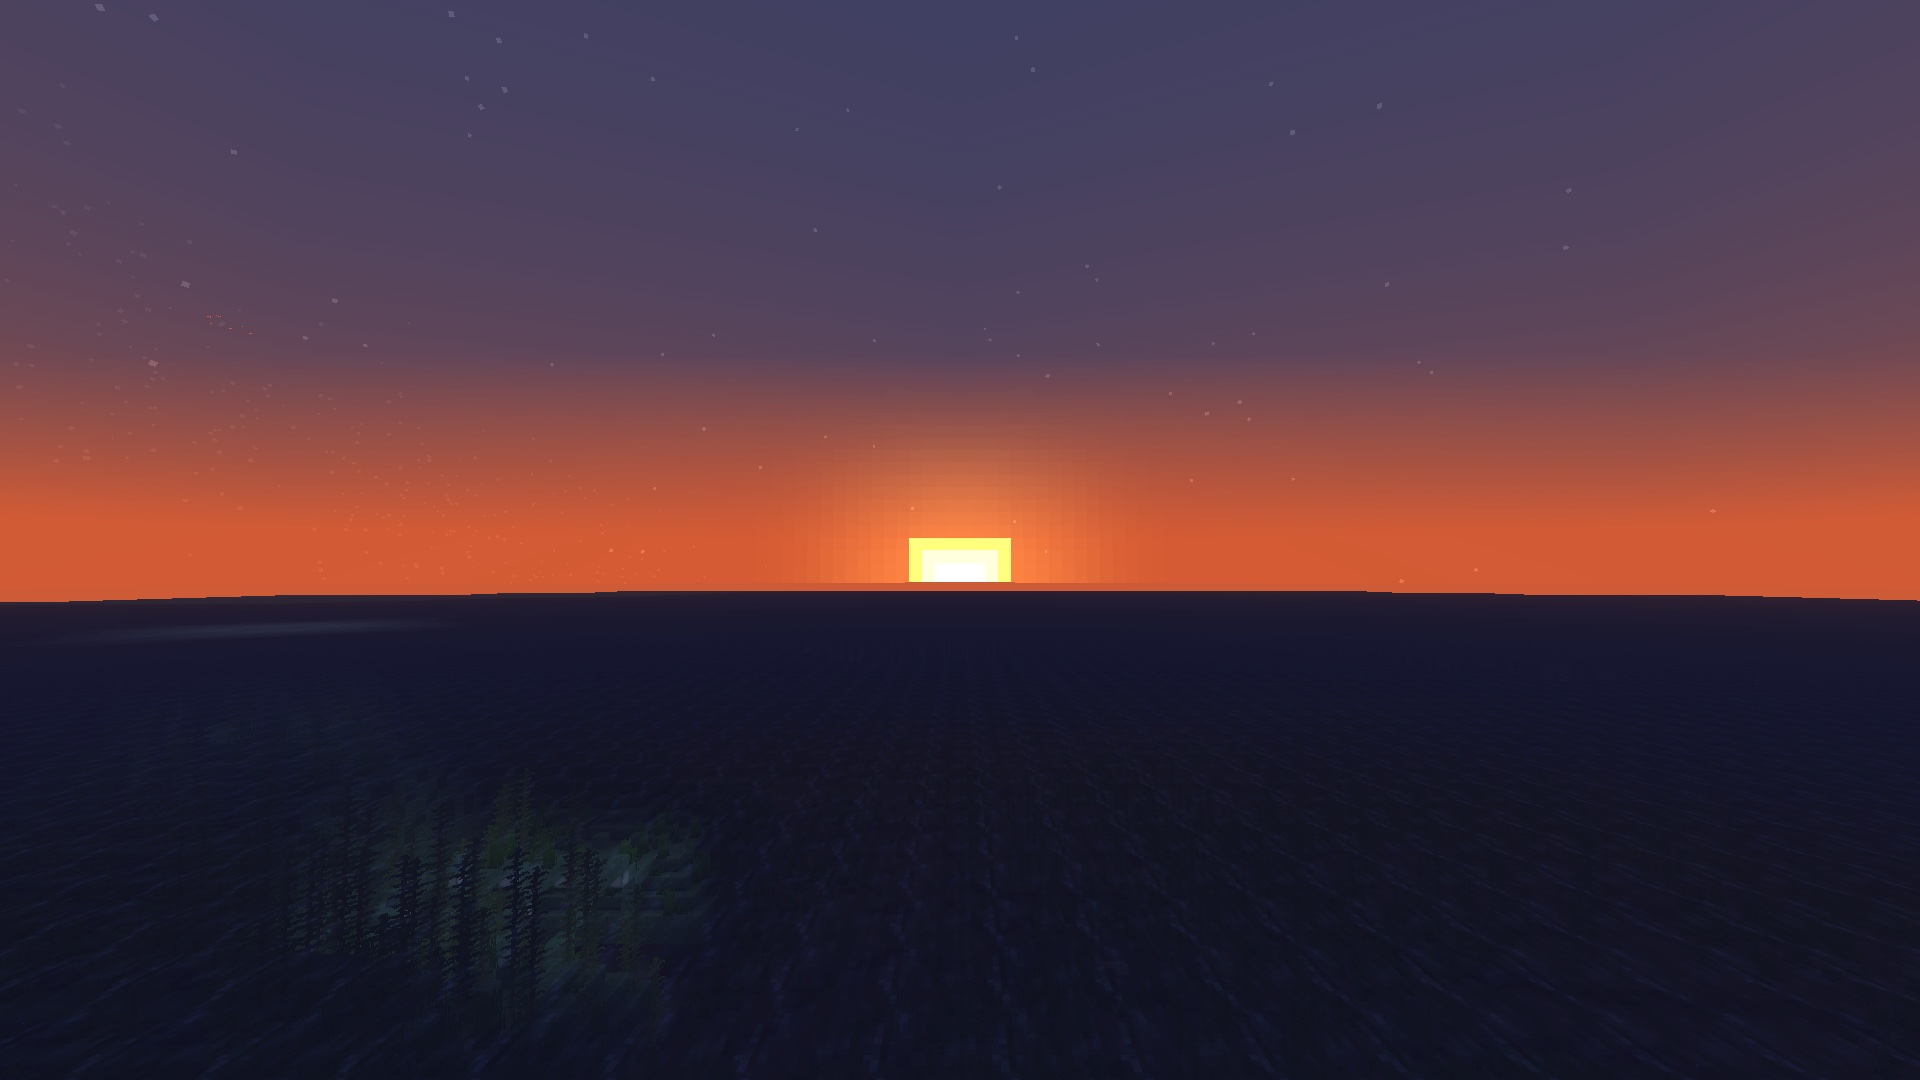
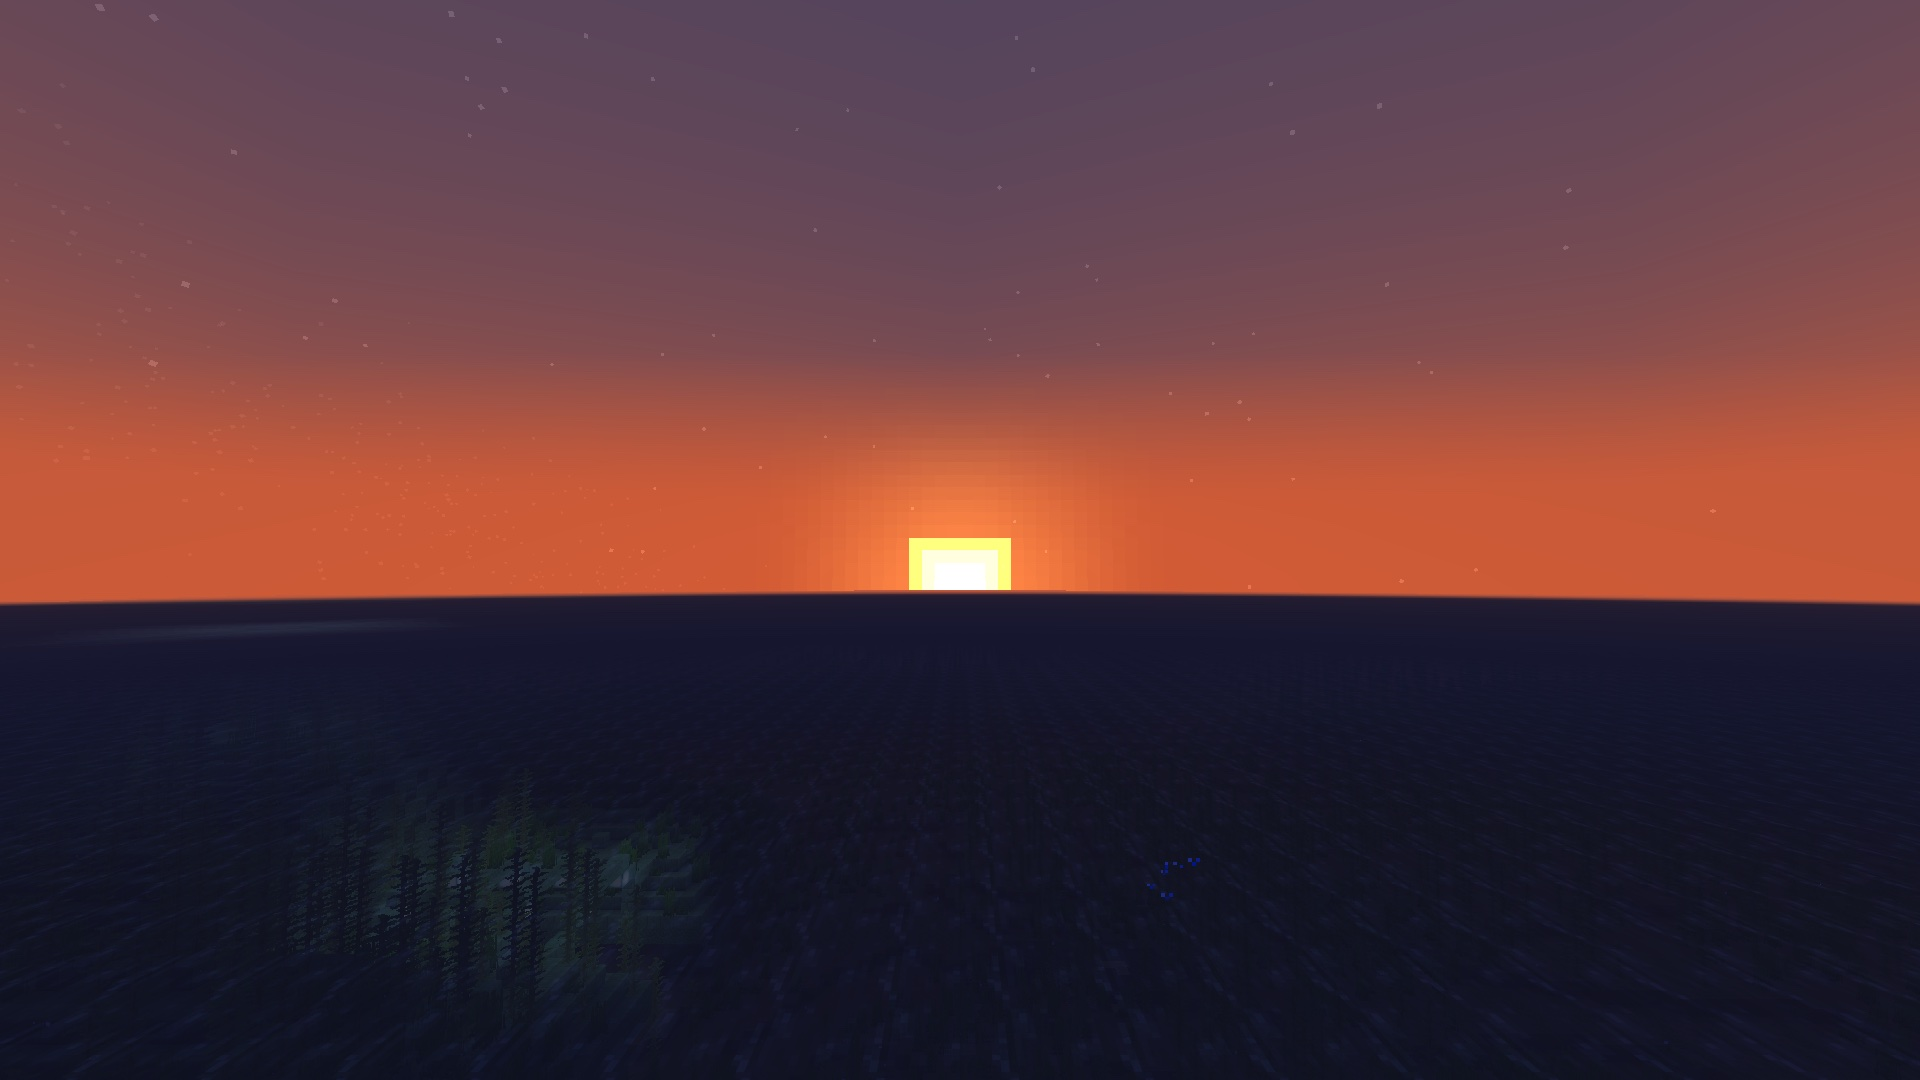
docs(site): retake the sunset at sea at 12 chunks, so no far land lines the horizon

diff --git a/src/gametest/java/com/cassonade/test/SiteScreenshotsClientGameTest.java b/src/gametest/java/com/cassonade/test/SiteScreenshotsClientGameTest.java
@@ -798,8 +798,8 @@ public class SiteScreenshotsClientGameTest implements FabricClientGameTest {
 				BlockPos sea = world.getServer().computeOnServer(server -> openSea(server.overworld()));
 				world.getServer().runCommand("time set 12850");
 				world.getServer().runCommand("tp @a " + sea.getX() + ".5 " + (sea.getY() + 2) + " " + sea.getZ() + ".5 90 -3");
-				// The horizon as far as players see it, every chunk up to it made and drawn first, or the sea stops short
-				context.runOnClient(client -> client.options.renderDistance().set(24));
+				// A little farther than the other shots, every chunk up to the horizon made and drawn first, or the sea stops short
+				context.runOnClient(client -> client.options.renderDistance().set(12));
 				context.waitTicks(40);
 				try {
 					context.waitFor(client -> client.levelRenderer.hasRenderedAllSections(), 20 * 180);
